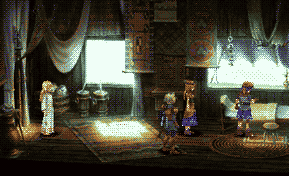
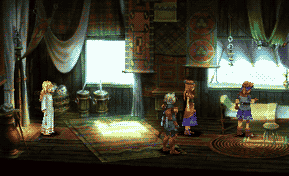
stuffs

diff --git a/src/main.rs b/src/main.rs
@@ -18,7 +18,7 @@ fn main() {
     }
 
     println!("Computing palette");
-    let pal = img.palette(16, 0xdeadbeef);
+    let pal = img.palette(32, 0xbeefdead);
 
     // let pal = [
     //     Oklab { l: 0.24, a: 0.01, b: -0.04 },
@@ -78,7 +78,7 @@ fn main() {
     let dither_options = DitherOptions {
         num_samples: 8,
         matrix_size: 4,
-        strength: 1.0,
+        strength: 0.3,
     };
 
     let palette_indices = img.knoll_dither(&dither_options, &pal);
